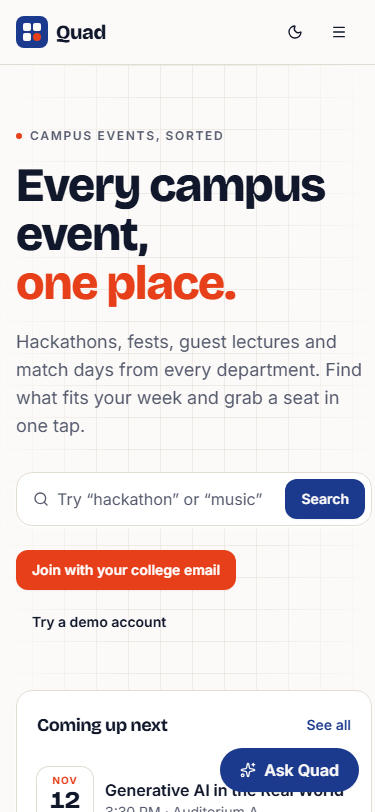
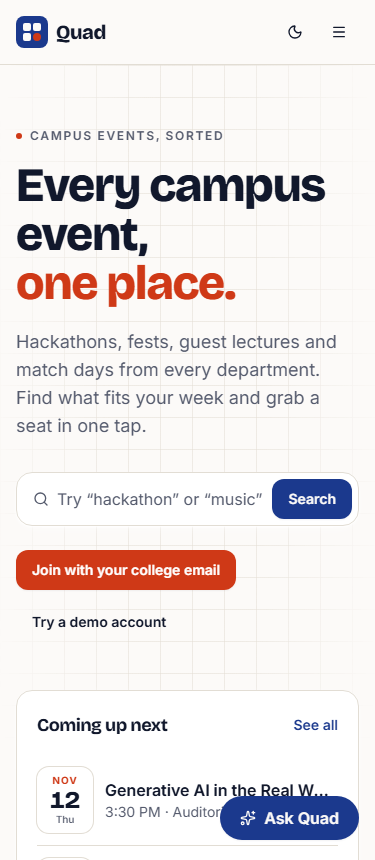
fix(app): mobile hero overflow, booking card first on mobile, AA highlight contrast, PNG OG image

diff --git a/app/src/pages/EventDetailPage.tsx b/app/src/pages/EventDetailPage.tsx
@@ -150,7 +150,8 @@ export default function EventDetailPage() {
         <EventBanner event={event} className="aspect-[21/9] max-h-[420px] w-full rounded-2xl" />
       </div>
 
-      <div className="page mt-8 grid gap-10 lg:grid-cols-[1fr_340px]">
+      {/* Mobile order: header, booking card, details. Desktop: booking card spans the right column. */}
+      <div className="page mt-8 grid grid-cols-1 gap-10 lg:grid-cols-[minmax(0,1fr)_340px] lg:grid-rows-[auto_1fr]">
         <div className="min-w-0">
           <div className="flex flex-wrap items-center gap-3">
             <CategoryTag event={event} />
@@ -172,7 +173,10 @@ export default function EventDetailPage() {
             </div>
           )}
 
-          <h2 className="mt-10 text-xl font-bold">About this event</h2>
+        </div>
+
+        <div className="order-last min-w-0 lg:order-none lg:col-start-1 lg:row-start-2">
+          <h2 className="text-xl font-bold">About this event</h2>
           <div className="mt-3 max-w-prose space-y-4 whitespace-pre-line leading-relaxed text-foreground/90">{event.description}</div>
 
           {event.tags.length > 0 && (
@@ -202,7 +206,7 @@ export default function EventDetailPage() {
           )}
         </div>
 
-        <aside className="lg:sticky lg:top-24 lg:self-start">
+        <aside className="lg:sticky lg:top-24 lg:col-start-2 lg:row-span-2 lg:row-start-1 lg:self-start">
           <div className="surface overflow-hidden">
             <div className="flex gap-4 border-b p-5">
               <DateStamp iso={event.startDate} />
@@ -321,7 +325,7 @@ function DetailSkeleton() {
   return (
     <div className="page py-10" aria-busy="true" aria-label="Loading event">
       <Skeleton className="aspect-[21/9] max-h-[420px] w-full rounded-2xl" />
-      <div className="mt-8 grid gap-10 lg:grid-cols-[1fr_340px]">
+      <div className="mt-8 grid grid-cols-1 gap-10 lg:grid-cols-[minmax(0,1fr)_340px]">
         <div className="space-y-3">
           <Skeleton className="h-4 w-32" />
           <Skeleton className="h-12 w-3/4" />

diff --git a/app/src/pages/EventsPage.tsx b/app/src/pages/EventsPage.tsx
@@ -99,7 +99,7 @@ export default function EventsPage() {
               id="event-search"
               value={draft}
               onChange={(e) => setDraft(e.target.value)}
-              placeholder="Search events, e.g. “robotics contest”"
+              placeholder="Try “robotics contest”"
               maxLength={200}
               className="h-10 w-full rounded-lg border bg-background pl-9 pr-9 text-base placeholder:text-muted-foreground sm:text-sm"
             />
@@ -120,7 +120,7 @@ export default function EventsPage() {
           <Button type="submit">Search</Button>
         </form>
         <div className="flex flex-wrap items-center gap-2">
-          <div className="-mx-1 flex max-w-full gap-1.5 overflow-x-auto px-1 pb-1" role="group" aria-label="Filter by category">
+          <div className="-mx-1 flex max-w-full gap-1.5 overflow-x-auto px-1 pb-1 [scrollbar-width:none]" role="group" aria-label="Filter by category">
             <Chip active={!categoryId} onClick={() => update('categoryId', '')}>
               All
             </Chip>

diff --git a/app/index.html b/app/index.html
@@ -16,7 +16,10 @@
       property="og:description"
       content="Discover, register for and organize college events, with AI recommendations and a campus concierge."
     />
-    <meta property="og:image" content="/og-image.svg" />
+    <!-- og:image must be PNG/JPG for social crawlers; og-image.svg is the editable source -->
+    <meta property="og:image" content="/og-image.png" />
+    <meta property="og:image:width" content="1200" />
+    <meta property="og:image:height" content="630" />
     <meta name="twitter:card" content="summary_large_image" />
     <link rel="preconnect" href="https://fonts.googleapis.com" />
     <link rel="preconnect" href="https://fonts.gstatic.com" crossorigin />

diff --git a/app/src/pages/HomePage.tsx b/app/src/pages/HomePage.tsx
@@ -28,7 +28,7 @@ export default function HomePage() {
       {/* Hero */}
       <section className="relative overflow-hidden border-b">
         <div className="paper-grid absolute inset-0" aria-hidden="true" />
-        <div className="page relative grid gap-12 py-14 sm:py-20 lg:grid-cols-[1.15fr_1fr] lg:items-center">
+        <div className="page relative grid grid-cols-1 gap-12 py-14 sm:py-20 lg:grid-cols-[minmax(0,1.15fr)_minmax(0,1fr)] lg:items-center">
           <div className="animate-fade-up">
             <p className="eyebrow inline-flex items-center gap-2">
               <span className="size-1.5 rounded-full bg-highlight" aria-hidden="true" /> Campus events, sorted

diff --git a/app/src/index.css b/app/src/index.css
@@ -24,7 +24,7 @@
     --muted-foreground: 224 12% 38%;
     --accent: 38 32% 92%;
     --accent-foreground: 224 45% 14%;
-    --highlight: 11 80% 50%;
+    --highlight: 11 80% 45%; /* 4.9:1 with white text (AA) */
     --highlight-foreground: 0 0% 100%;
     --success: 152 62% 30%;
     --warning: 35 92% 38%;
